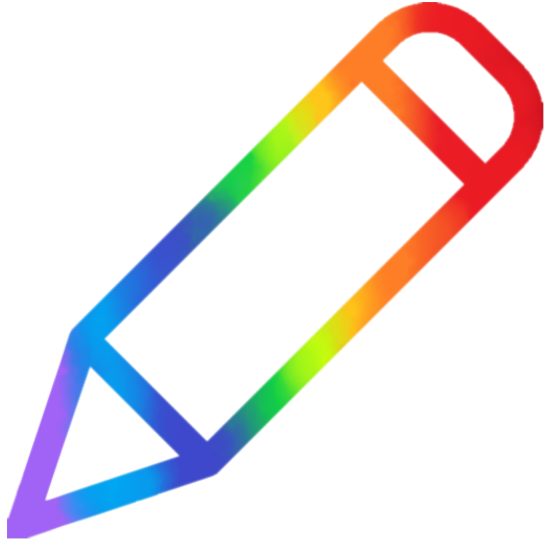
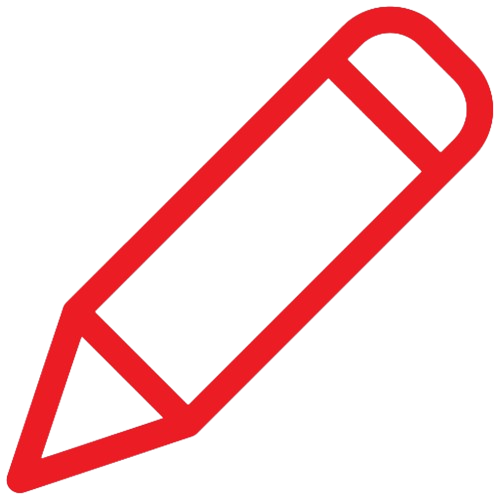
Add finishing touched to code and UI

diff --git a/style.css b/style.css
@@ -1,16 +1,26 @@
+.coming-soon-regular {
+  font-family: "Coming Soon", cursive;
+  font-weight: 400;
+  font-style: normal;
+}
+
 body {
   min-height: 98vh;
   display: flex;
   flex-flow: row;
-  justify-content: center;
+  justify-content: space-between;
   align-items: center;
+  background-image: url(pics/paper.jpg);
+  background-repeat: repeat-x;
+  font-family: "Coming Soon", sans-serif;
+  flex: 1, 1, 1;
 }
 
 #container {
   display: flex;
   flex-flow: wrap;
   align-content: flex-start;
-  border: solid 3px black;
+  border: solid 2px black;
   border-radius: 5px;
   width: 500px;
   height: 500px;
@@ -29,12 +39,17 @@ body {
 }
 
 input {
-  border: solid 3px black;
+  border: solid 2px black;
   border-radius: 5px;
+  font-family: "Coming Soon", sans-serif;
+  font-size: 18px;
 }
-button {
-  border: solid 3px black;
+
+#sizeButton {
+  border: solid 2px black;
   border-radius: 5px;
+  font-family: "Coming Soon", sans-serif;
+  font-size: 18px;
 }
 
 #buttons {
@@ -42,13 +57,39 @@ button {
   padding-top: 10px;
 }
 
+#buttons button {
+  background: none;
+  border: none;
+}
+
 img {
   height: 50px;
   width: 50px;
-  padding-left: 5px;
-  padding-right: 5px;
 }
 
-.eraser {
+#penPic {
+  height: 60px;
+  width: 60px;
+}
+
+#eraser {
   margin-left: auto;
+}
+
+#notepad {
+  border: solid 2px black;
+  padding: 20px;
+  border-radius: 10px;
+  background-color: white;
+  box-shadow: rgba(0, 0, 0, 0.4) 0px 2px 4px,
+    rgba(0, 0, 0, 0.3) 0px 7px 13px -3px, rgba(0, 0, 0, 0.2) 0px -3px 0px inset;
+  margin-left: -163px;
+}
+
+#logo {
+  display: flex;
+  align-self: flex-end;
+  left: 0;
+  bottom: 0;
+  gap: 5px;
 }

diff --git a/index.html b/index.html
@@ -7,11 +7,16 @@
     <title>Etch-a-Sketch!</title>
     <link rel="stylesheet" href="style.css">
     <script src="java.js" defer></script>
+    <link rel="preconnect" href="https://fonts.googleapis.com">
+    <link rel="preconnect" href="https://fonts.gstatic.com" crossorigin>
+    <link href="https://fonts.googleapis.com/css2?family=Coming+Soon&display=swap" rel="stylesheet">
 </head>
 
 <body>
-    <div></div>
-    <div>
+    <div id="logo"><a href="https://github.com/guskirb"><img id="github" src="pics/github.png" alt="github logo"></a>
+        <h3>by Gus Kirby</h3>
+    </div>
+    <div id="notepad">
         <div id="playArea">
             <div id="inputField">
                 <input type="text" id="sizeInput" placeholder="Enter a Value">
@@ -21,9 +26,9 @@
             </div>
         </div>
         <div id="buttons">
-            <img src="pics/pen.png" class="pen">
-            <img src="pics/colorpen.png" class="colorPen">
-            <img src="pics/eraser.png" class="eraser">
+            <button id="pen"><img src="pics/pen.png" id="penPic" alt="pen lineart"></button>
+            <button id="colorPen"><img src="pics/colorpen.png" id="colorPenPic" alt="color pen lineart"></button>
+            <button id="eraser"><img src="pics/eraser.png" id="eraserPic" alt="eraser lineart"></button>
         </div>
     </div>
     <div></div>

diff --git a/java.js b/java.js
@@ -3,6 +3,9 @@ const container = document.getElementById("container");
 const gridBox = container.getElementsByTagName("div");
 const sizeBtn = document.getElementById("sizeButton");
 const sizeInput = document.getElementById("sizeInput");
+const penButton = document.getElementById("penPic")
+const colorPenButton = document.getElementById("colorPenPic")
+const eraserButton = document.getElementById("eraserPic")
 var penColor = "black";
 
 function erase() {
@@ -52,3 +55,27 @@ for (let i = 0; i < gridBox.length; i++) {
         fillIn.style.borderColor = penColor;
     });
 };
+
+penButton.addEventListener("click", function () {
+    colorPenButton.style.height = "50px";
+    colorPenButton.style.width = "50px";
+    penButton.style.height = "60px";
+    penButton.style.width = "60px";
+    penColor = "black";
+})
+
+colorPenButton.addEventListener("click", function () {
+    penButton.style.height = "50px";
+    penButton.style.width = "50px";
+    colorPenButton.style.height = "60px";
+    colorPenButton.style.width = "60px";
+    penColor = "red";
+
+})
+
+eraserButton.addEventListener("click", function () {
+    for (let x = 0; x < gridBox.length; x++) {
+        gridBox[x].style.borderColor = "#b8b8b896";
+        gridBox[x].style.backgroundColor = "white";
+    }
+})
